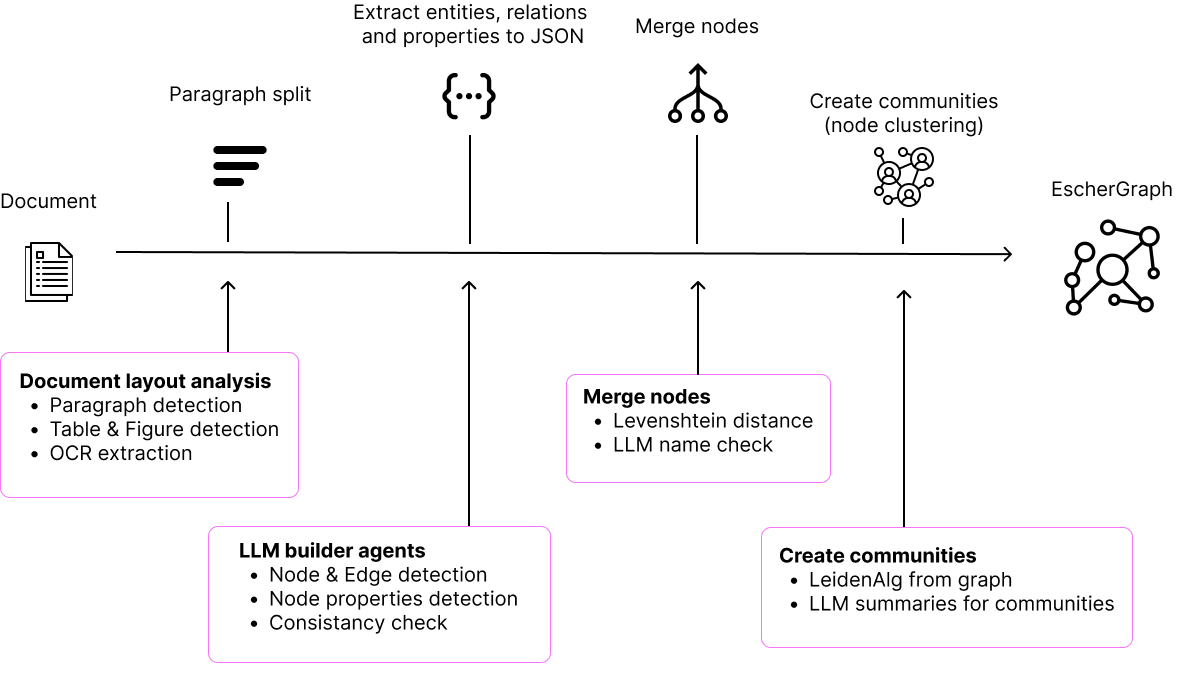
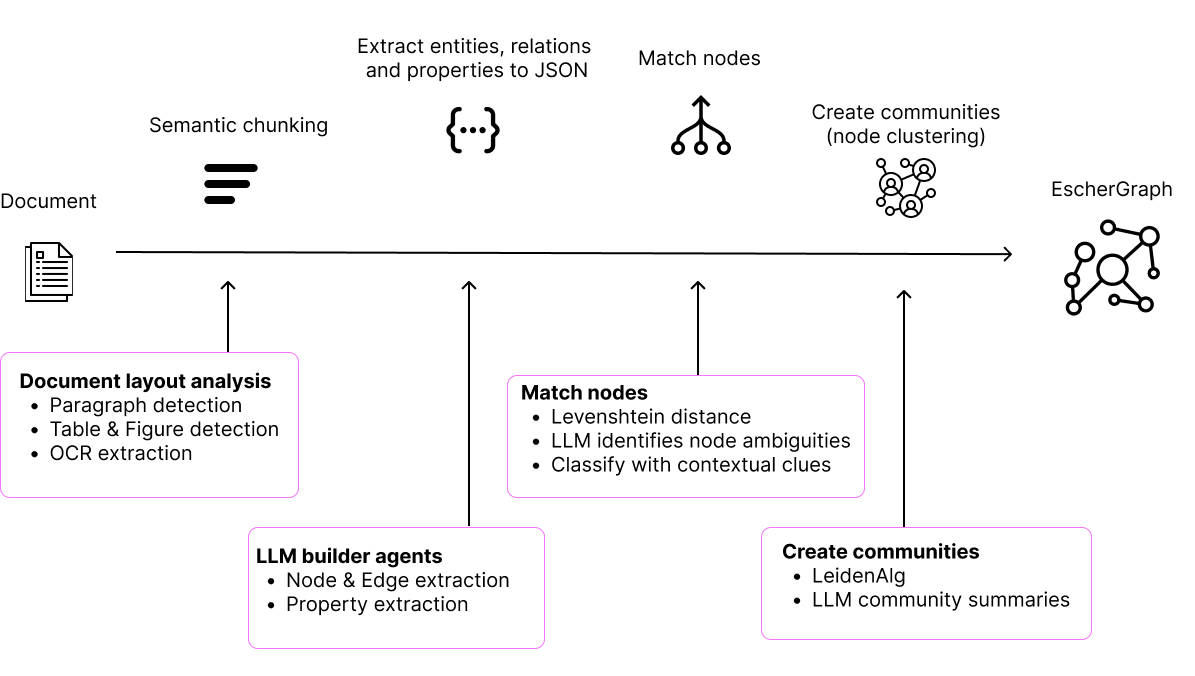
The doc site should now be ready for another deployment

diff --git a/docs/docusaurus.config.js b/docs/docusaurus.config.js
@@ -23,7 +23,7 @@ const config = {
   organizationName: 'PinkDot AI', // Usually your GitHub org/user name.
   projectName: 'EscherGraph', // Usually your repo name.
 
-  onBrokenLinks: 'throw',
+  onBrokenLinks: 'warn',
   onBrokenMarkdownLinks: 'warn',
 
   // Even if you don't use internationalization, you can use this field to set

diff --git a/docs/src/theme/Admonition/Icon/Danger.js b/docs/src/theme/Admonition/Icon/Danger.js
@@ -1,0 +1,10 @@
+import React from 'react';
+import Danger from '@theme-original/Admonition/Icon/Danger';
+
+export default function DangerWrapper(props) {
+  return (
+    <>
+      <Danger {...props} />
+    </>
+  );
+}

diff --git a/docs/docs/explained-eschergraph/Graph building.md b/docs/docs/explained-eschergraph/Graph building.md
@@ -31,6 +31,8 @@ It involves two steps.
 
 2) Decide on potential matches using LLM reasoning and contextual clues. This is done to make the right decision, even for edge cases: when dealing with different entities that are referenced by the same name across different chunks. For example, 'Sam', 'Sam Altman', and 'Sam Bankman-Fried'.
 Therefore, the node matcher utilizes additional context to differentiate between them. This process involves:
+     - LLM identifies node name ambiguities: given a list of potentially matching entity names, the LLM returns a list of edge cases.
+
      - Re-ranking potential matches: a re-ranker evaluates the similarity of the nodes based on context, metadata, or additional attributes to accurately determine which specific entity a node is referring to.
 
-     - Contextual clues: the re-ranker leverages additional contextual information from the surrounding data or relationships to clarify which node is the correct match. This might include looking at node connections, associated attributes, or other identifiers to make a more informed decision.
+     - Contextual clues: the re-ranker leverages additional contextual information from the surrounding data or relationships to classify which node is the correct match. This might include looking at node connections, associated attributes, or other identifiers to make a more informed decision.

diff --git a/README.md b/README.md
@@ -3,6 +3,8 @@
 
 Let's learn how to build, and RAG search with **EscherGraph** in under 5 min.
 
+![EscherGraph](docs/docs/explained-eschergraph/img/Eschergraph.png)
+
 ### Installing
 Install the package in your Python environment with the following command.
 
@@ -76,13 +78,13 @@ my_file1 = 'test_files/Attention Is All You Need.pdf'
 
 graph.build(files = my_file1)
 
-# Adding another file to the graph, is possible by simply building again:
-my_file2 = 'test_files/Test file2.pdf'
+# Adding more files to the graph is possible by simply building again:
+my_file2 = "test_files/test_file2.txt"
+my_file3 = "test_files/test_file3.pdf"
 
-graph.build(files = my_file2)
+graph.build(files = [my_file2, my_file3])
 ```
-Files takes one file location, or a list of file locations. Currently only .pdf or .txt files are supported.
-Graph building might take a while, dependending on the size of the files.
+Build can be used to add documents to the graph. All you need to do is specify the filepath of the files that you want to add to the graph. It is possible to specify both a string of a single filepath or a list containing multiple filepaths.
 
 ### Search
 #### Local RAG search

diff --git a/docs/docs/getting_started.md b/docs/docs/getting_started.md
@@ -79,13 +79,13 @@ my_file1 = 'test_files/Attention Is All You Need.pdf'
 
 graph.build(files = my_file1)
 
-# Adding another file to the graph, is possible by simply building again:
-my_file2 = 'test_files/Test file2.pdf'
+# Adding more files to the graph is possible by simply building again:
+my_file2 = "test_files/test_file2.txt"
+my_file3 = "test_files/test_file3.pdf"
 
-graph.build(files = my_file2)
+graph.build(files = [my_file2, my_file3])
 ```
-Files takes one file location, or a list of file locations. Currently only .pdf or .txt files are supported.
-Graph building might take a while, dependending on the size of the files.
+Build can be used to add documents to the graph. All you need to do is specify the filepath of the files that you want to add to the graph. It is possible to specify both a string of a single filepath or a list containing multiple filepaths.
 
 ## Search
 ### Local RAG search
